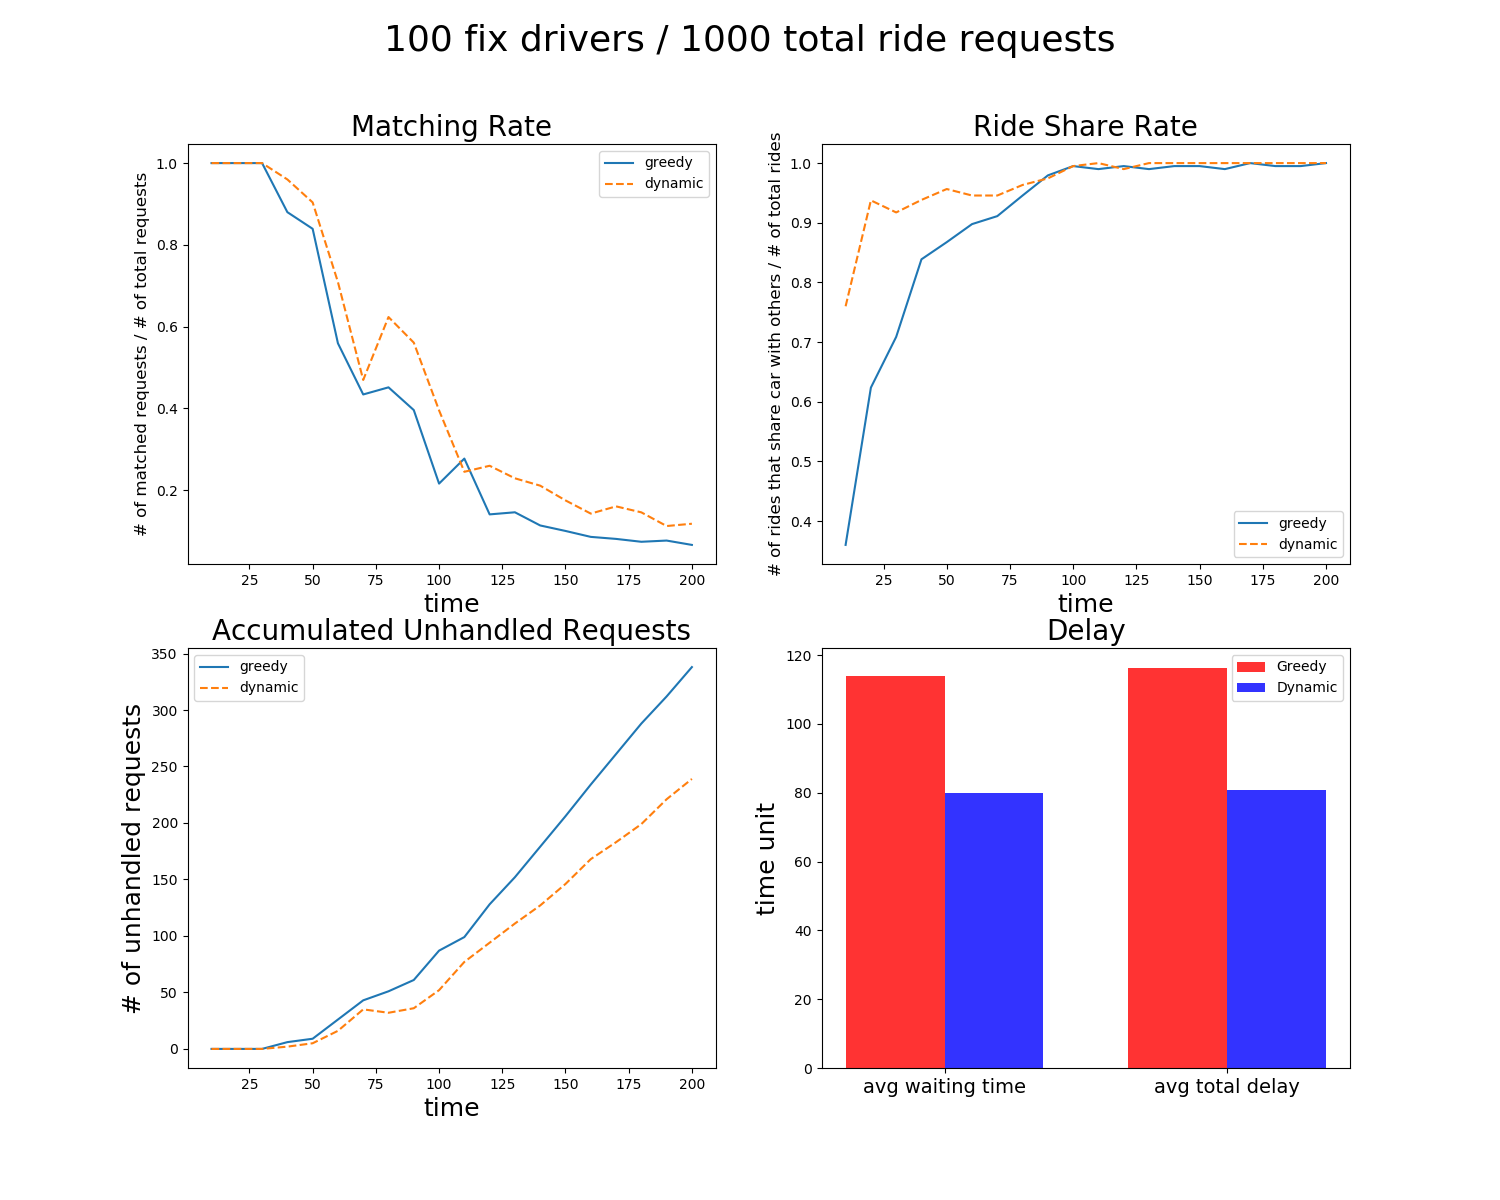
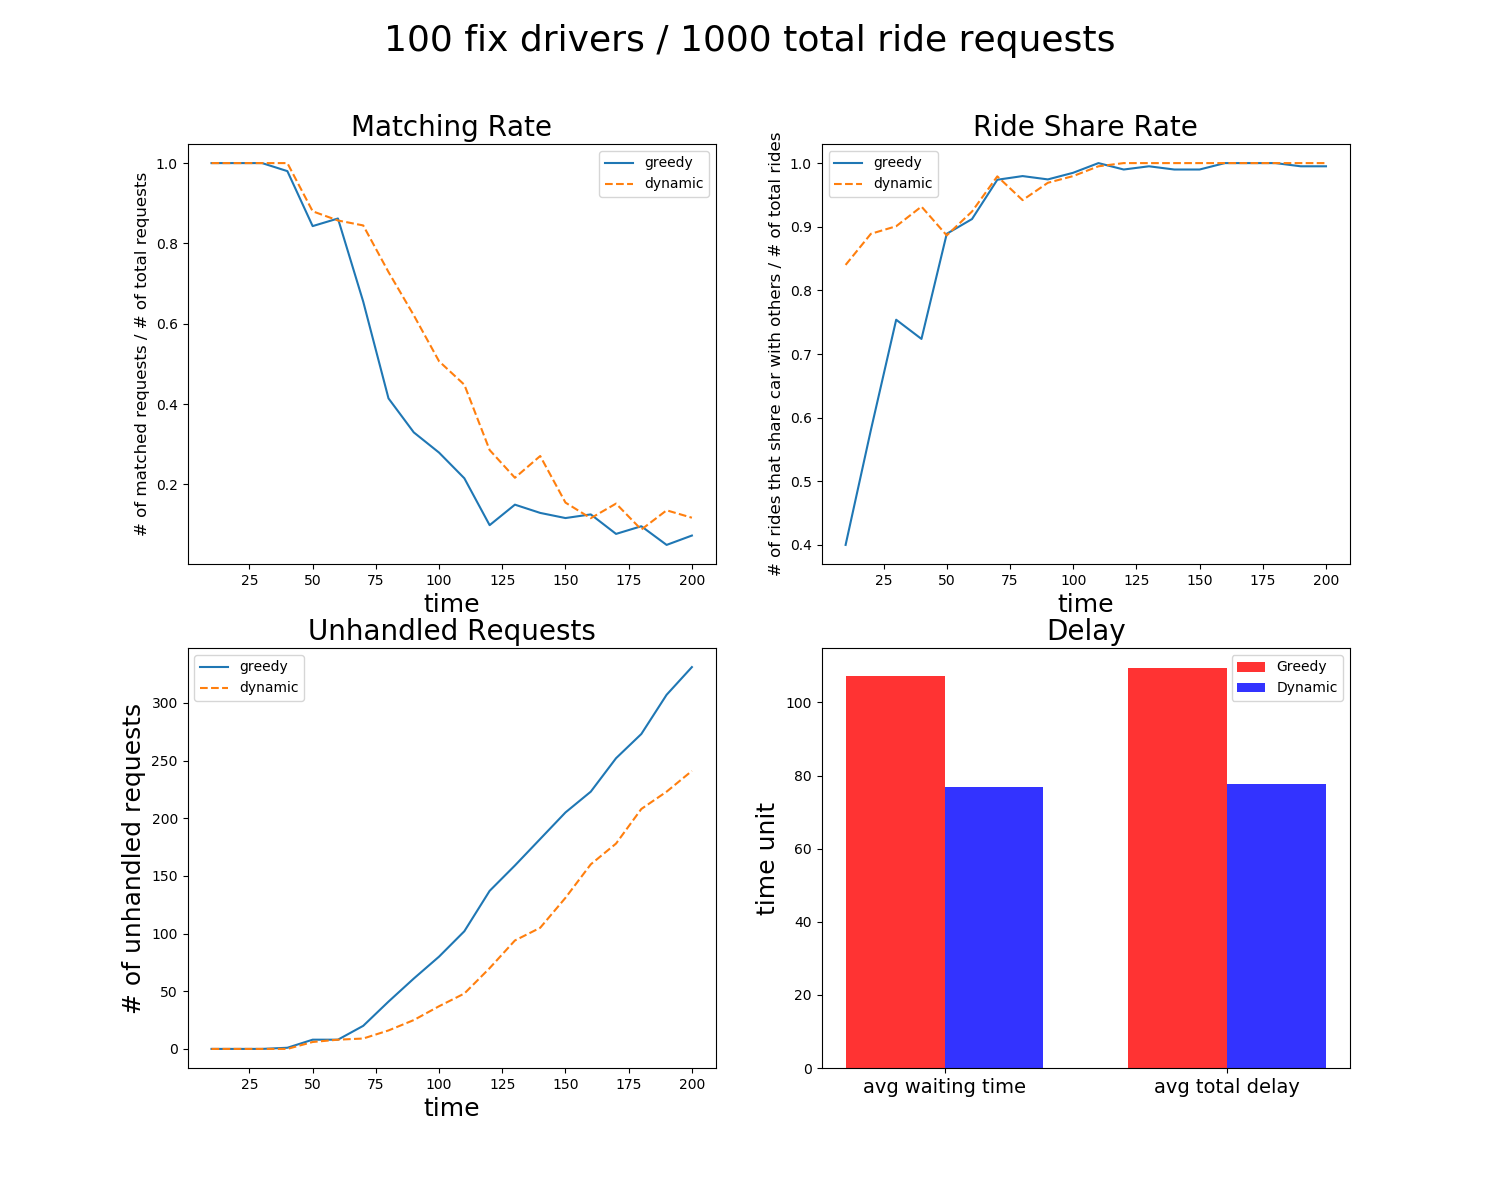
fix graphp title

diff --git a/matchingEngine/gridWorldSimulator.py b/matchingEngine/gridWorldSimulator.py
@@ -674,7 +674,7 @@ def peakTrafficTime(unitOfTimeToGenerate, maxNumOfReqGeneratePerUnitTime, totalD
         ax.legend()
 
         ax = plt.subplot(gs[1, 0])
-        ax.set_title('Accumulated Unhandled Requests', fontsize=20)
+        ax.set_title('Unhandled Requests', fontsize=20)
         ax.set_xlabel('time', fontsize=18)
         ax.set_ylabel('# of unhandled requests', fontsize=18)
         x = [ x for (x, _) in gridWorld_greedy.numOfRemainingRequests ]
